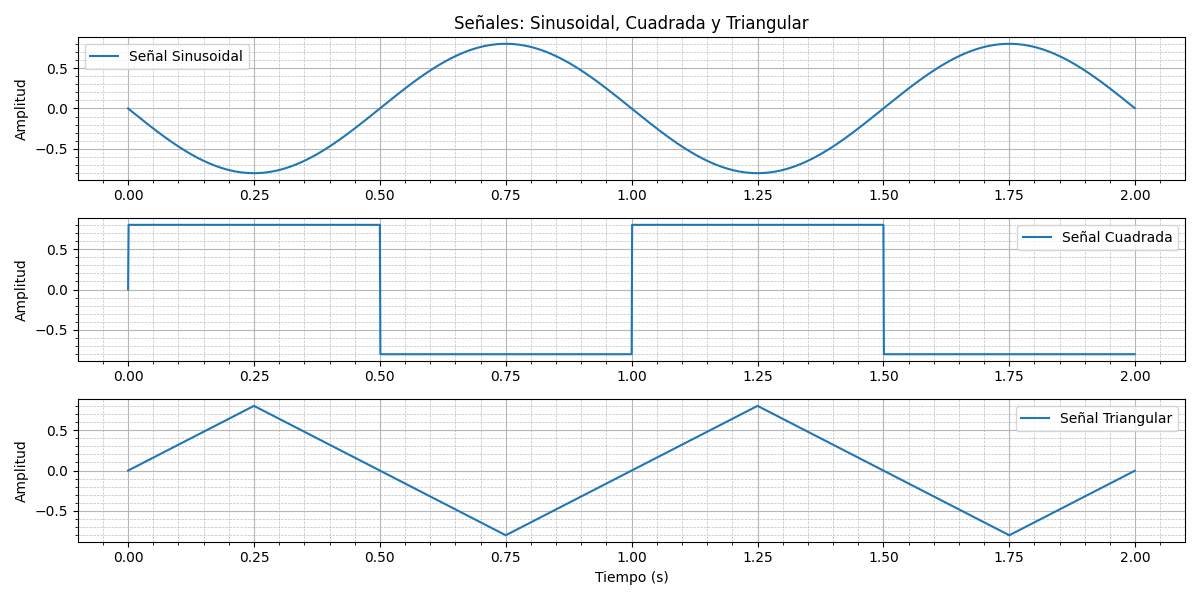
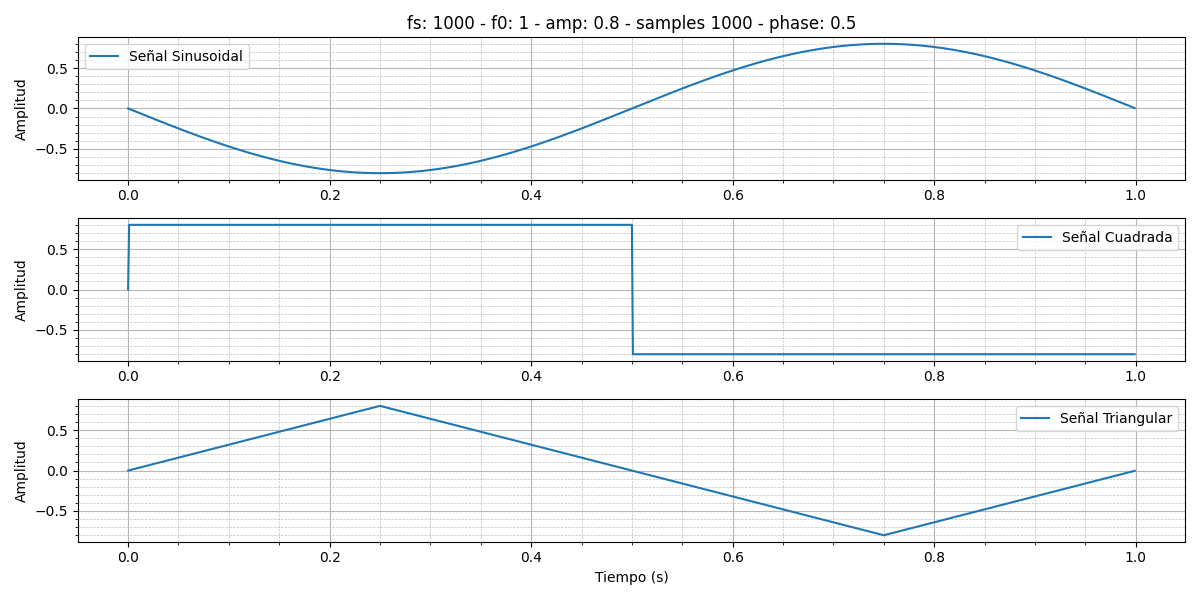
feat: new figures

diff --git a/TP/TP1/TP1FuncGeneratorExample.py b/TP/TP1/TP1FuncGeneratorExample.py
@@ -1,11 +1,11 @@
 from FuncGenerator import *
 from matplotlib import pyplot as plt
 
-fs = 1000  # Frecuencia de muestreo en Hz
-f0 = 1    # Frecuencia de la señal en Hz
-amp = 0.8  # Amplitud de la señal
-samples = 2000  # Número de muestras
-phase = 0.5
+fs = 3000  # Frecuencia de muestreo en Hz
+f0 = 4    # Frecuencia de la señal en Hz
+amp = 1.0  # Amplitud de la señal
+samples = 1000  # Número de muestras
+phase = 0.75
 # Generar la señal sinusoidal
 t_sin, sinusoidal_signal = SinFunc(fs, f0, amp, samples,phase)
 t_square, square_signal = SquareFunc(fs, f0, amp, samples)
@@ -21,7 +21,7 @@ plt.grid(True, linestyle='-', alpha=0.9)
 plt.minorticks_on()
 plt.grid(which='minor', linestyle='--', linewidth='0.5', alpha=0.8)
 plt.ylabel('Amplitud')
-plt.title('Señales: Sinusoidal, Cuadrada y Triangular')
+plt.title(f'fs: {fs} - f0: {f0} - amp: {amp:.2} - samples {samples} - phase: {phase:.3}')
 plt.legend()
 
 # Gráfica 2: Señal Cuadrada

diff --git a/TP/TP1/TP1Readme.md b/TP/TP1/TP1Readme.md
@@ -46,8 +46,13 @@ t_triangular, triangular_signal = TriangularFunc(fs, f0, amp, samples)
 ```
 y se graficó utilizando la biblioteca plot de matplotlib
 
-
 ![alt text](https://github.com/mrds90/psf_2023/blob/MSE_Dominguez/TP/TP1/figures/FuncGenFs1000F01Amp0_8Phase0_5.png?raw=true)
+
+![alt text](https://github.com/mrds90/psf_2023/blob/MSE_Dominguez/TP/TP1/figures/FuncGenFs1000F02Amp0_4Phase0_25.png?raw=true)
+
+![alt text](https://github.com/mrds90/psf_2023/blob/MSE_Dominguez/TP/TP1/figures/FuncGenFs3000F04Amp1_0Phase0_75.png?raw=true)
+
+
 
 ## Author
 
